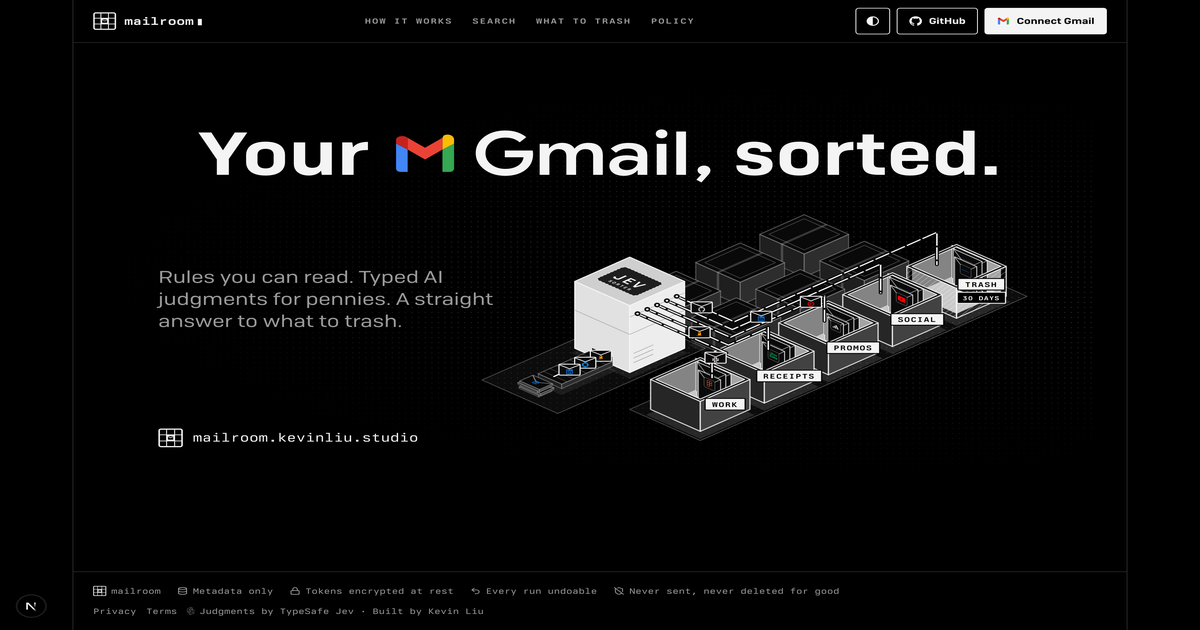
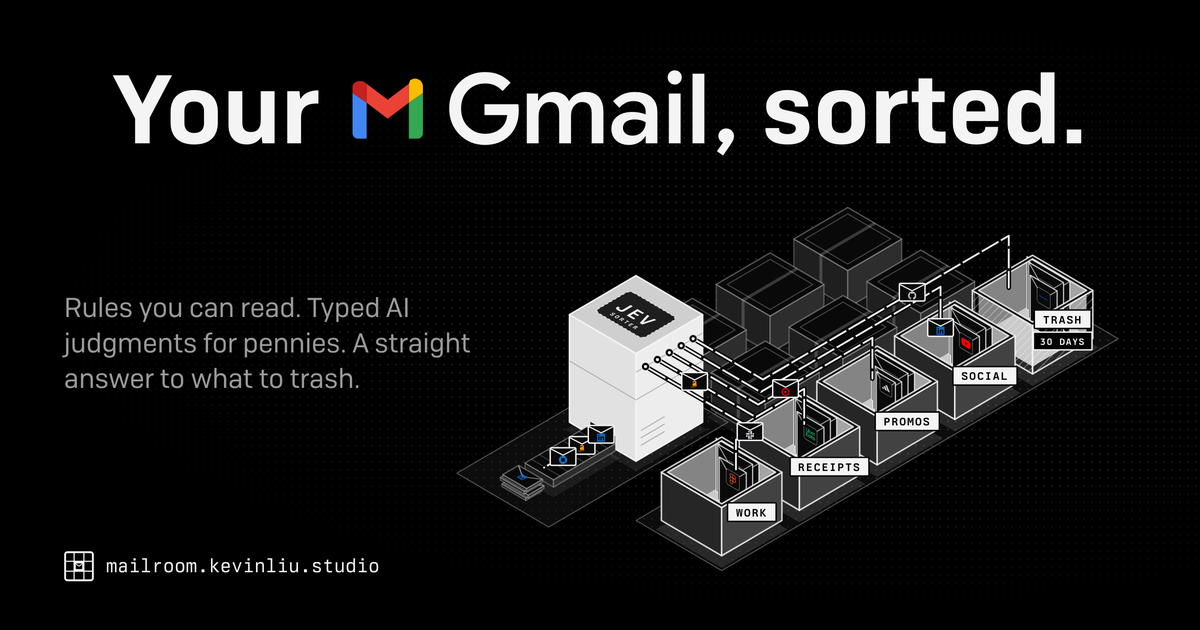
Share image cut precisely from the marked capture

diff --git a/src/app/og/page.tsx b/src/app/og/page.tsx
@@ -15,7 +15,7 @@ export default function OgPage() {
       <div
         id="og"
         className="relative shrink-0 overflow-hidden"
-        style={{ width: 1200, minWidth: 1200, height: 630, background: "var(--page)", color: "var(--ink)", ...DARK }}
+        style={{ width: 1200, minWidth: 1200, height: 630, background: "var(--page)", color: "var(--ink)", outline: "4px solid #ff00ff", outlineOffset: 0, ...DARK }}
       >
         <div className="dither" aria-hidden="true" />
         <h1 className="absolute left-0 right-0 m-0 text-center font-semibold leading-none" style={{ top: 64, fontSize: 96, letterSpacing: "0.01em", whiteSpace: "nowrap" }}>
